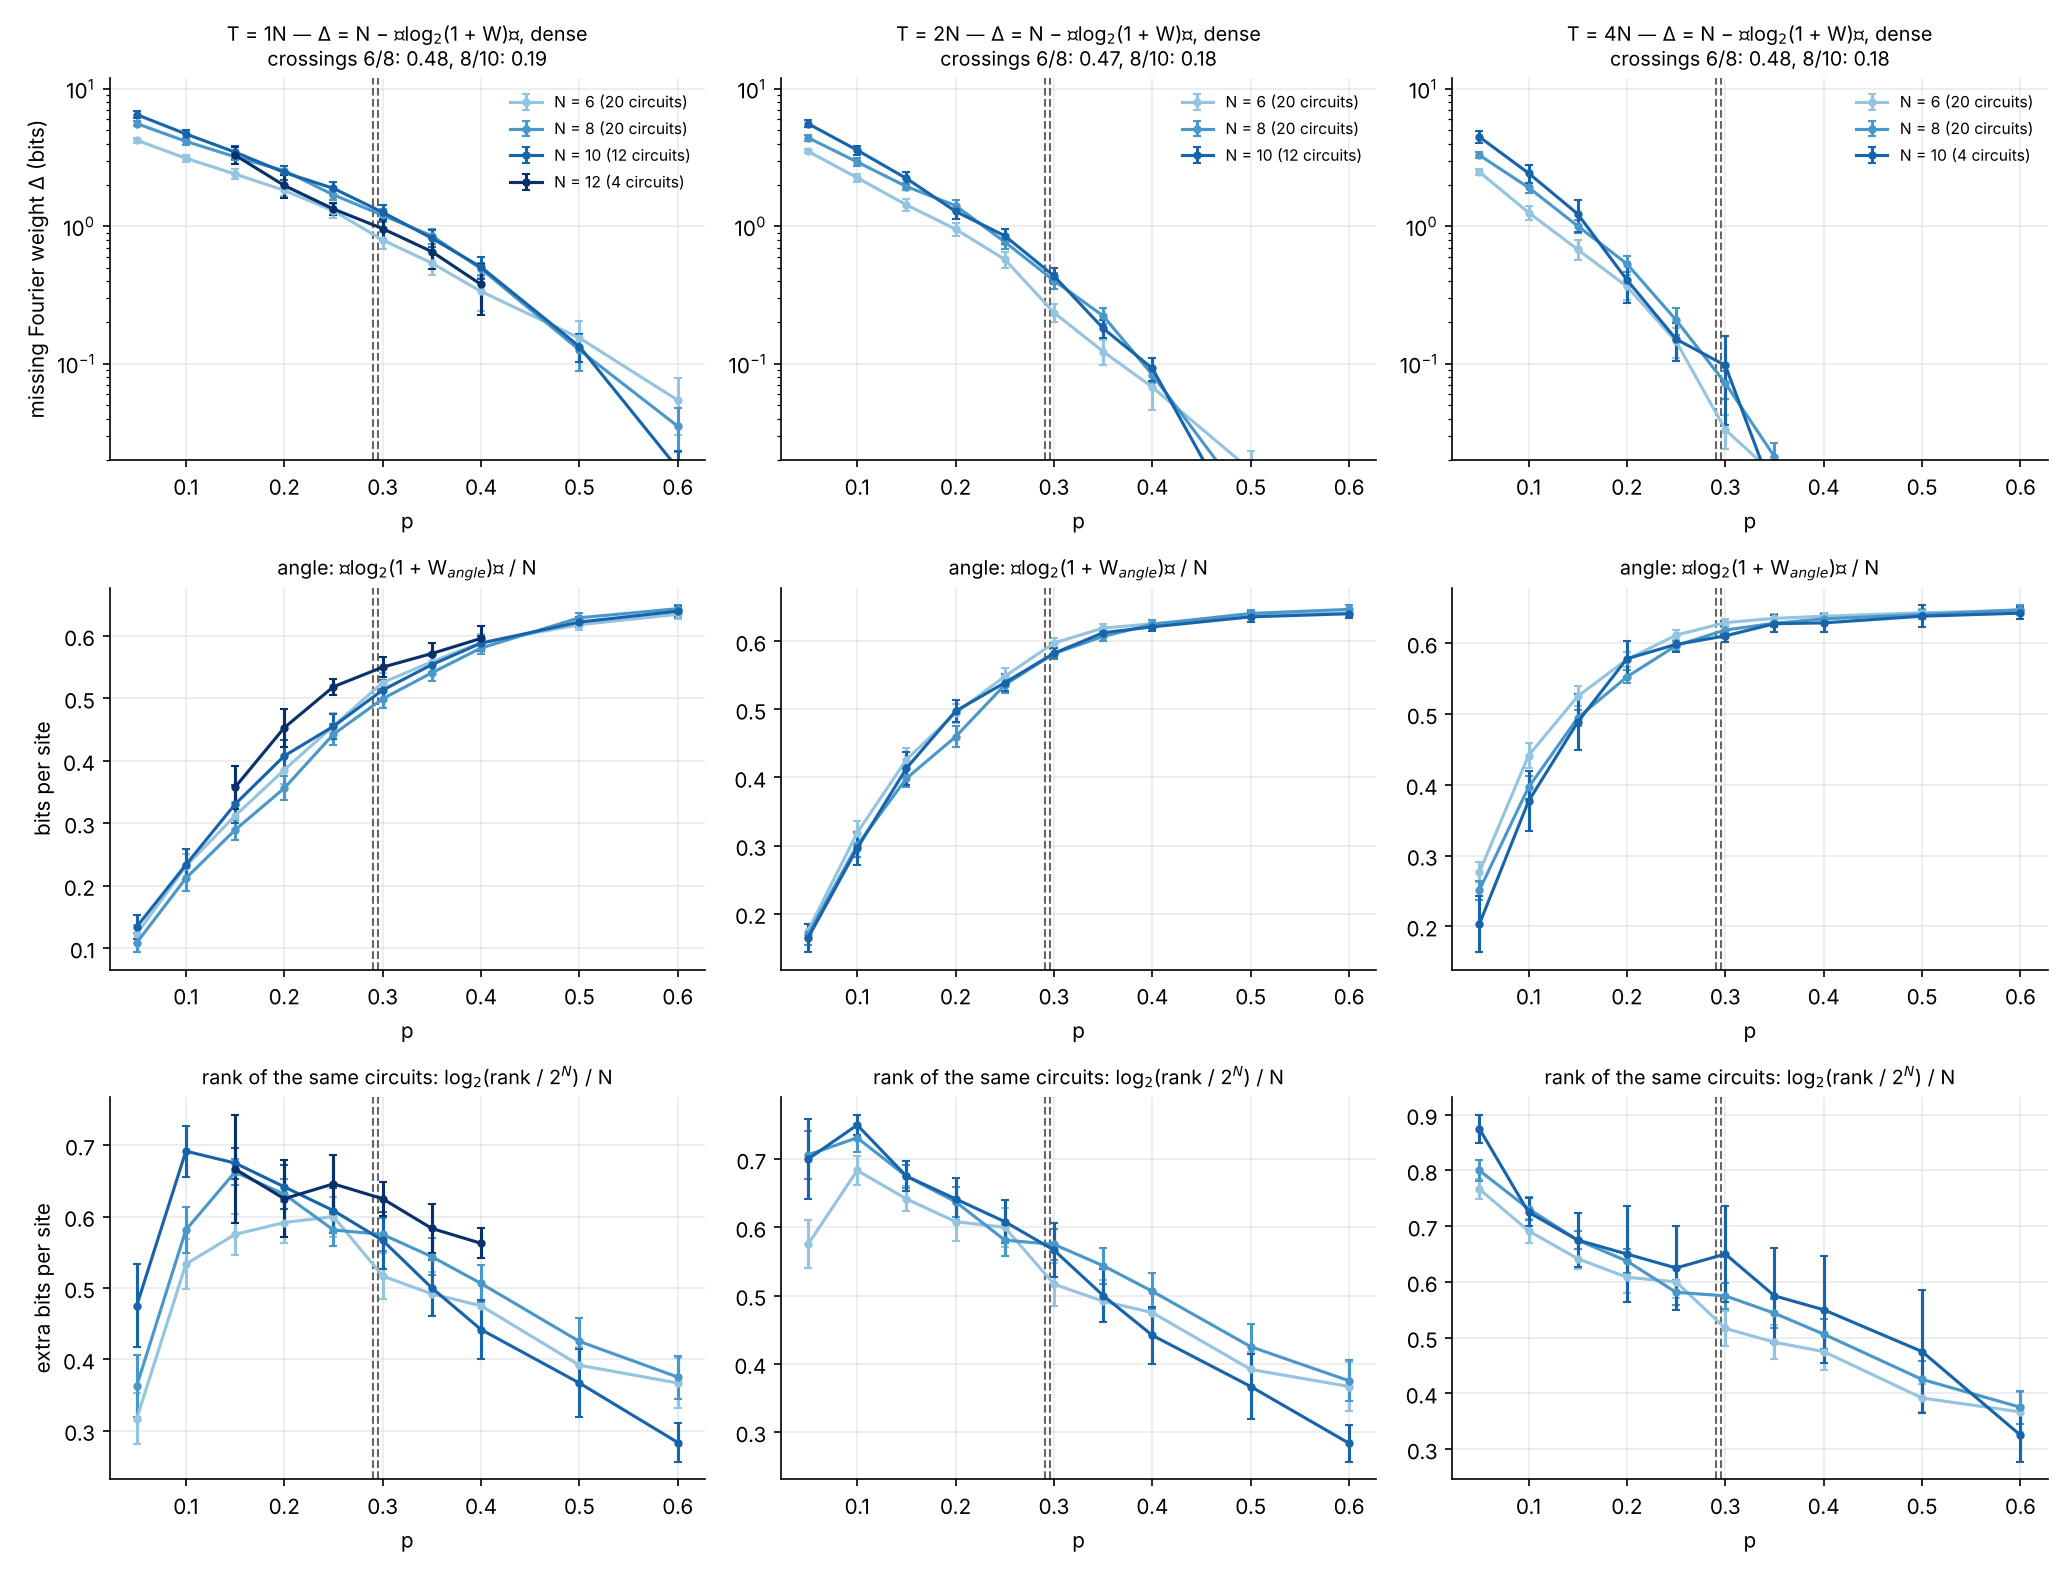
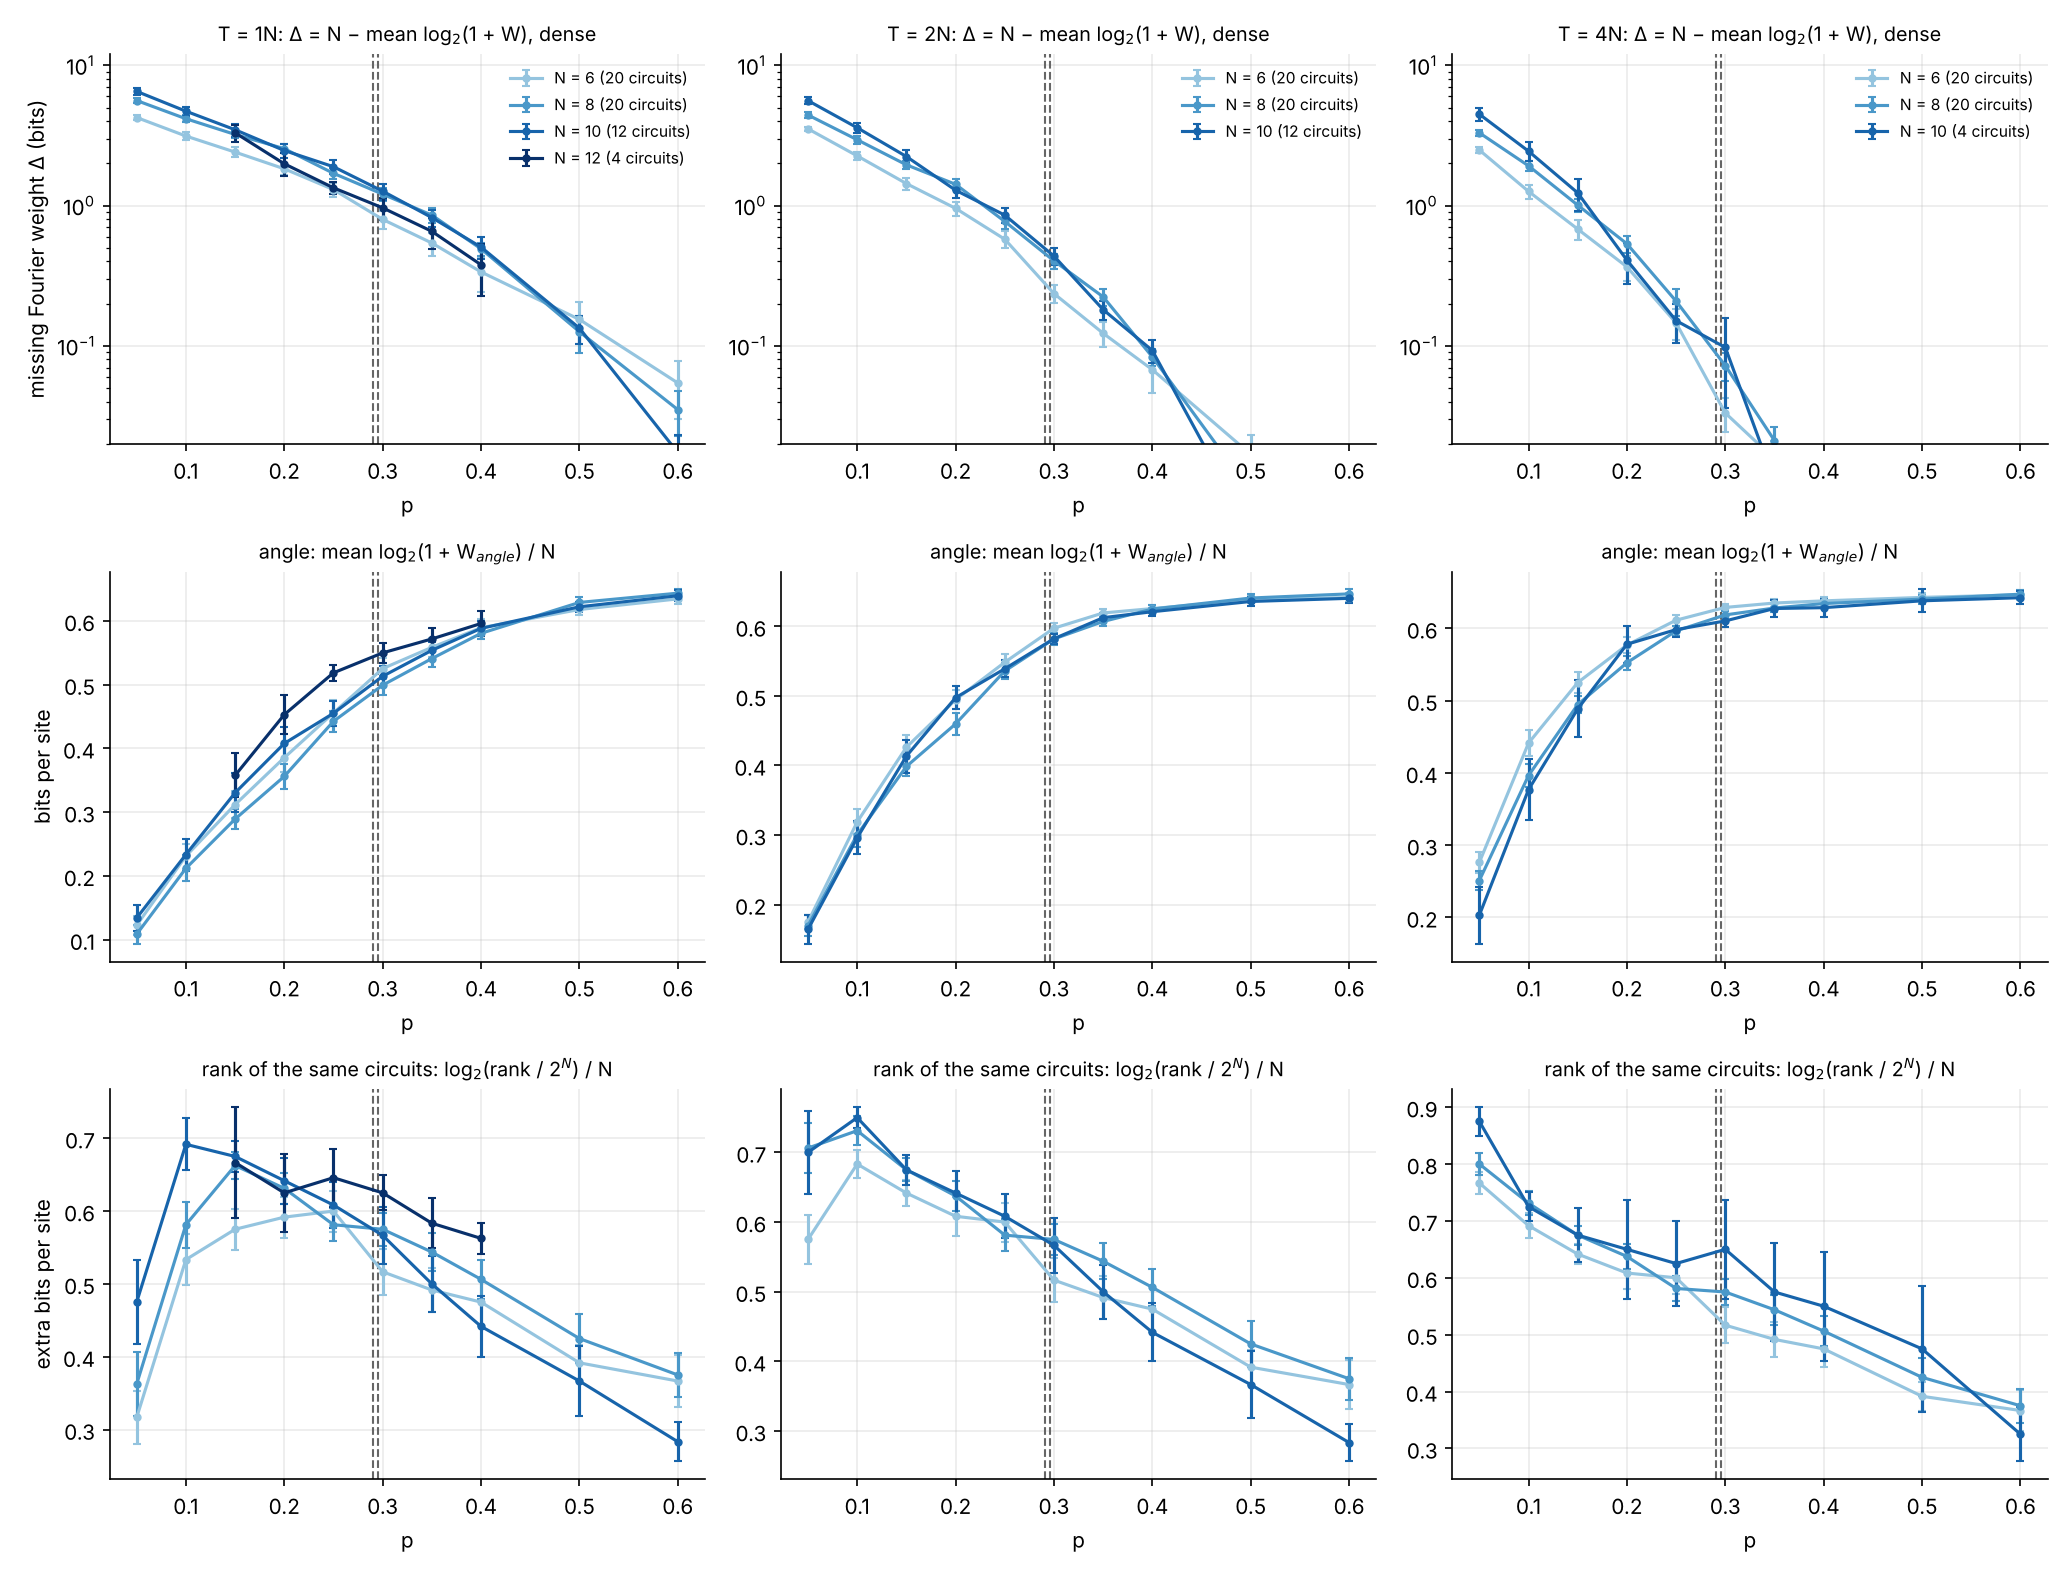
Fourier weight: figure titles and README section (#325)
Claude-Session: https://claude.ai/code/session_0185Mugt5uT5xvKYJvvbAYmE

diff --git a/experiments/effect_mipt/plot_effect_mipt.py b/experiments/effect_mipt/plot_effect_mipt.py
@@ -350,14 +350,12 @@ def weight_figure(
             if c is not None:
                 cross.append({"N": [n1, n2], **c})
         out[f"T={ratio}N"]["crossings"] = cross
-        text = ", ".join(f"{c['N'][0]}/{c['N'][1]}: {c['p']:.2f}" for c in cross)
         axes[0, j].set_yscale("log")
         axes[0, j].set_ylim(0.02, 12)
         axes[0, j].set_title(
-            f"T = {ratio}N — Δ = N − ⟨log$_2$(1 + W)⟩, dense\ncrossings {text}",
-            fontsize=9.5,
+            f"T = {ratio}N: Δ = N − mean log$_2$(1 + W), dense", fontsize=9.5
         )
-        axes[1, j].set_title("angle: ⟨log$_2$(1 + W$_{angle}$)⟩ / N", fontsize=9.5)
+        axes[1, j].set_title("angle: mean log$_2$(1 + W$_{angle}$) / N", fontsize=9.5)
         axes[2, j].set_title(
             "rank of the same circuits: log$_2$(rank / 2$^N$) / N", fontsize=9.5
         )

diff --git a/experiments/effect_mipt/README.md b/experiments/effect_mipt/README.md
@@ -123,6 +123,56 @@ rule is not enough to see the transition. Of the candidates of the note of
 #319, the one that does see it is the entropy of the mid-circuit effect
 (Figure 2), which is the known purification order parameter.
 
+## Per-record Fourier weight (issue #325)
+
+For a mid-circuit record `m`, `Pr(m | x) = sum_a c_a(m) B_a(x)` on the Bloch
+monomials, with `c_a` the Pauli coefficients of the effect `E_m`. The weight
+outside the constant mode is `W(m) = sum_{a != 0} c_a^2 / c_0^2`. With the
+dense encoding, `1 + W = 2^N Tr[E_m^2] / Tr[E_m]^2`, so the missing weight
+`Delta = N - log2(1 + W)` is the Renyi-2 entropy of the effect, that is the
+purification entropy: `Delta = N` when `x -> Pr(m | x)` is flat, `Delta = 0`
+when the record fixes the input as well as a pure state would. The angle
+encoding keeps the strings without `Y`. `fourier_weight` computes both from
+the Kraus operator of a Born-drawn record (`sample_kraus`), and the `weight`
+subcommand runs it on the circuits and masks of the rank runs:
+
+```bash
+uv run python experiments/effect_mipt/effect_mipt.py weight --n 8 --ratio 2 \
+    --seeds $(seq 0 19) --samples 30
+```
+
+![Per-record Fourier weight](figures/fourier_weight.png)
+
+**Figure 5. Per-record Fourier weight, Haar, fixed masks, `T = N`, `2N`,
+`4N` (columns).** Colour: `N = 6` to 12. Dashed lines: the two `p_c` of
+Figures 1 and 2. Error bars: standard error over circuits. `N = 6, 8`: 20
+circuits, 30 records each; `N = 10`: 12 circuits and 20 records (4 and 10 at
+`T = 4N`); `N = 12`: 4 circuits and 5 records, `T = N` only.
+- **Top: missing weight `Delta` in bits, dense, log scale.**
+  - Below `p ≈ 0.2`, `Delta` grows with `N`: at `p = 0.1`, `T = 4N`, 1.26,
+    1.92, 2.44 bits for `N = 6, 8, 10`. The record leaves a number of bits
+    that grows with the size.
+  - Above `p ≈ 0.35`, `Delta` falls below 0.1 bit at `T = 4N` for every
+    size, and below 0.25 bit at `T = 2N`.
+  - **Between the two the sizes are not separated**: no pairwise crossing is
+    resolved (the interpolated ones range from 0.18 to 0.48). `N <= 10` is
+    too small for Haar. The same quantity for Clifford at `N = 16` to 64 is
+    Figure 2 (for a stabilizer state all Renyi entropies coincide), where
+    the change of trend is at `p = 0.28` to 0.30.
+  - `Delta` depends on `T`: at `T = N` the pure phase has not finished
+    purifying (0.8 to 1.3 bits left at `p = 0.3`).
+- **Middle: mean `log2(1 + W_angle) / N`, angle encoding.** It rises as
+  `Delta` falls and saturates at 0.64 bit per site, close to the
+  `log2(3/2) = 0.585` of a random pure state. The sizes agree within errors:
+  the angle encoding sees the same per-record weight, on a smaller scale.
+- **Bottom: rank of the same circuits** (min cut). It has its peak at small
+  `p`, unrelated to the fall of `Delta`.
+
+**Reading.** In the Fourier framework, the transition is in the weight of
+each row of `A` (how far one record's function is from the constant), not
+in the number of modes the rows span. At Haar sizes `N <= 12` this is a
+trend, not a resolved crossing; the resolved evidence is the Clifford run.
+
 ## Caveats
 
 - `D_2` is estimated from 600 records. Its in-sample standard error grows
